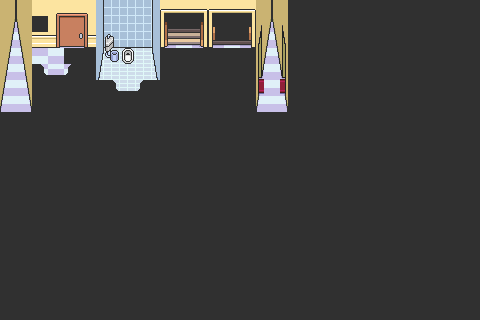
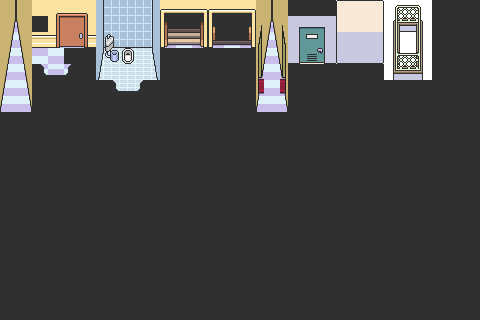
Add RoofTop

Changed region(s): [[0.5938, 0.0, 0.9062, 0.25]]

diff --git a/src/states/loading.js b/src/states/loading.js
@@ -5,6 +5,7 @@ var Map = require('../explore/map');
 var floor1 = require('../../maps/floor1.json');
 var floor2 = require('../../maps/floor2.json');
 var floor3 = require('../../maps/floor3.json');
+var roof = require('../../maps/roof.json');
 var class1 = require('../../maps/class1.json');
 var class2 = require('../../maps/class2.json');
 var class3 = require('../../maps/class3.json');
@@ -49,6 +50,7 @@ LoadingState.prototype.enter = function () {
         floor1: new Map(floor1),
         floor2: new Map(floor2),
         floor3: new Map(floor3),
+        roof: new Map(roof),
         class1: new Map(class1),
         class2: new Map(class2),
         class3: new Map(class3),

diff --git a/src/states/explore.js b/src/states/explore.js
@@ -10,7 +10,7 @@ function WorldState(game) {
 WorldState.prototype.init = function () {
     this.viewport = new Viewport(this.game.ctx.canvas.width, this.game.ctx.canvas.height);
     this.world = new World(this.game);
-    this.world.loadMap('floor1', 'start');
+    this.world.loadMap('floor3', 'start');
     var basicFont = this.game.resources.basicfont;
     this.menuButton = new TextMenu(basicFont, 250, 135, 29, 20, 4, [
         {id: 'menu', text: 'Menu'}
